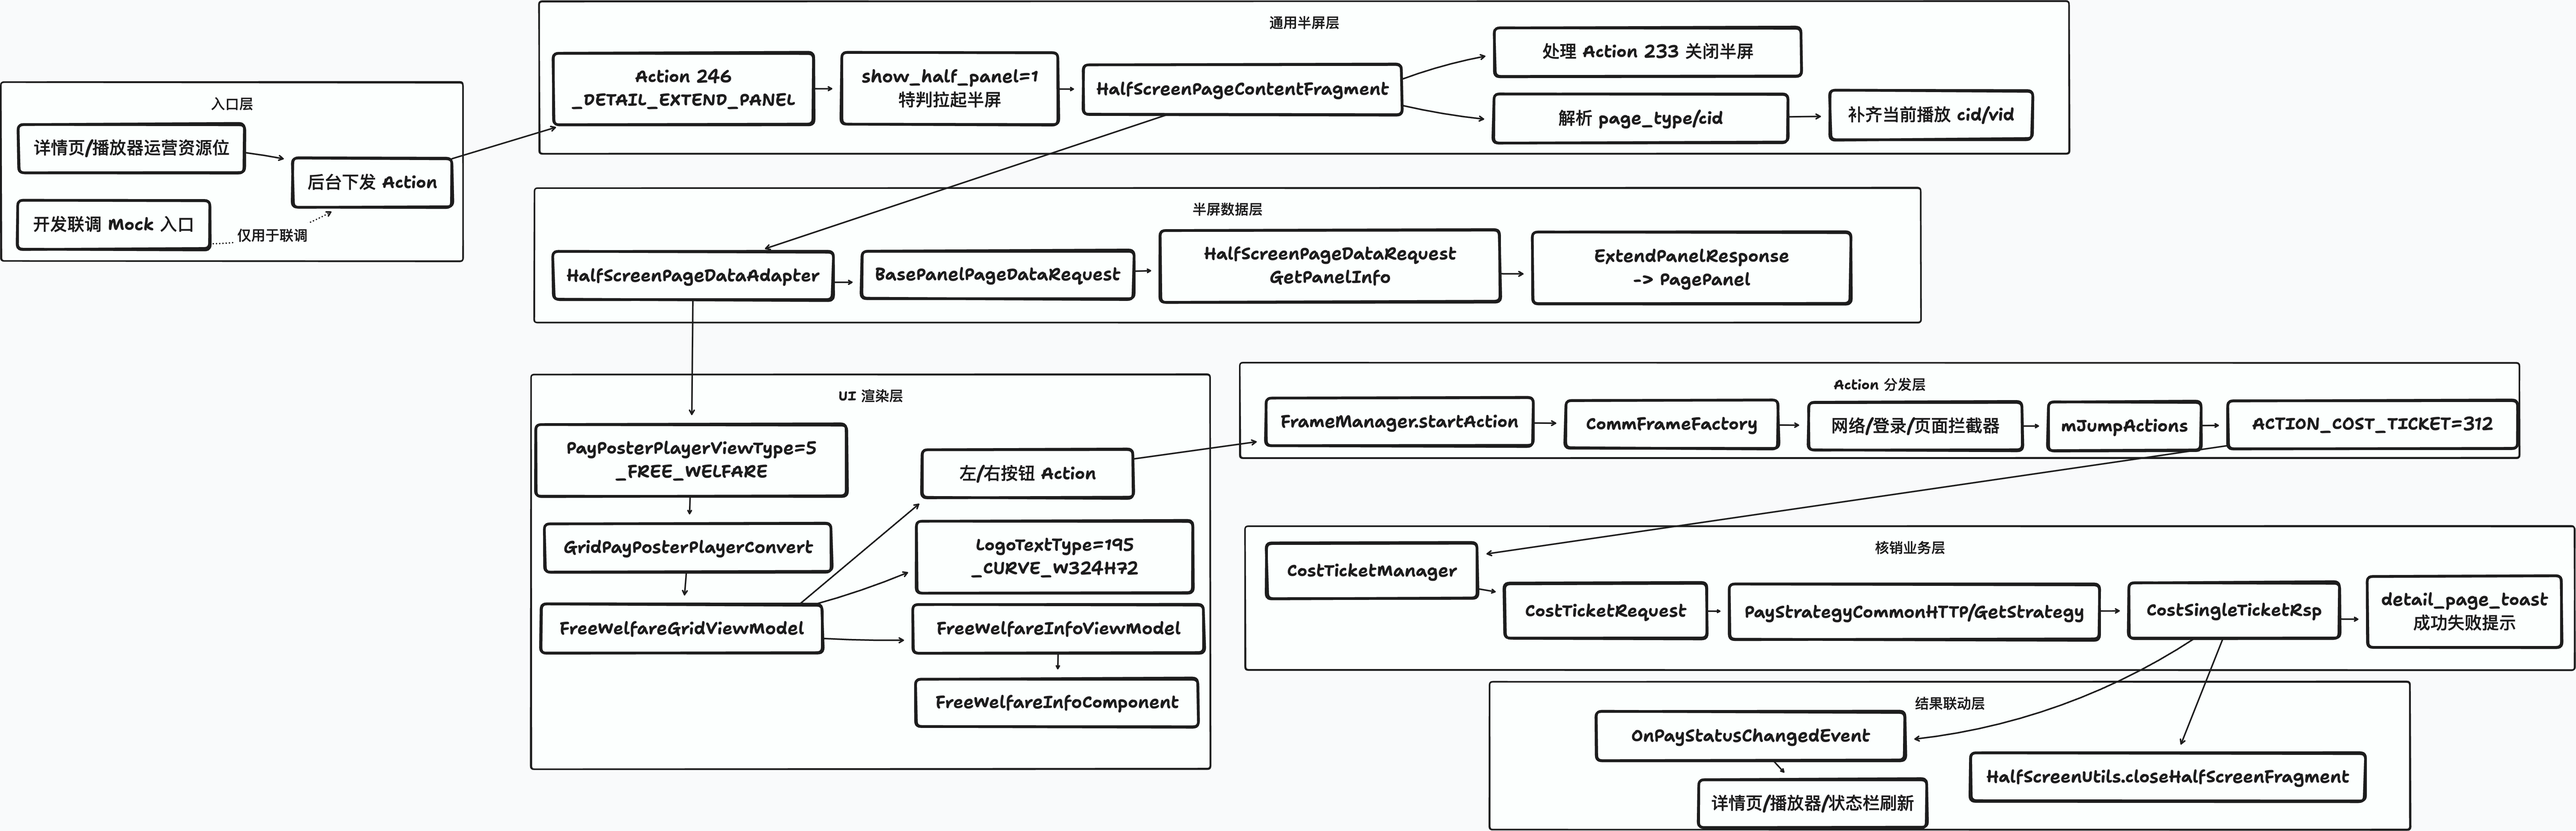
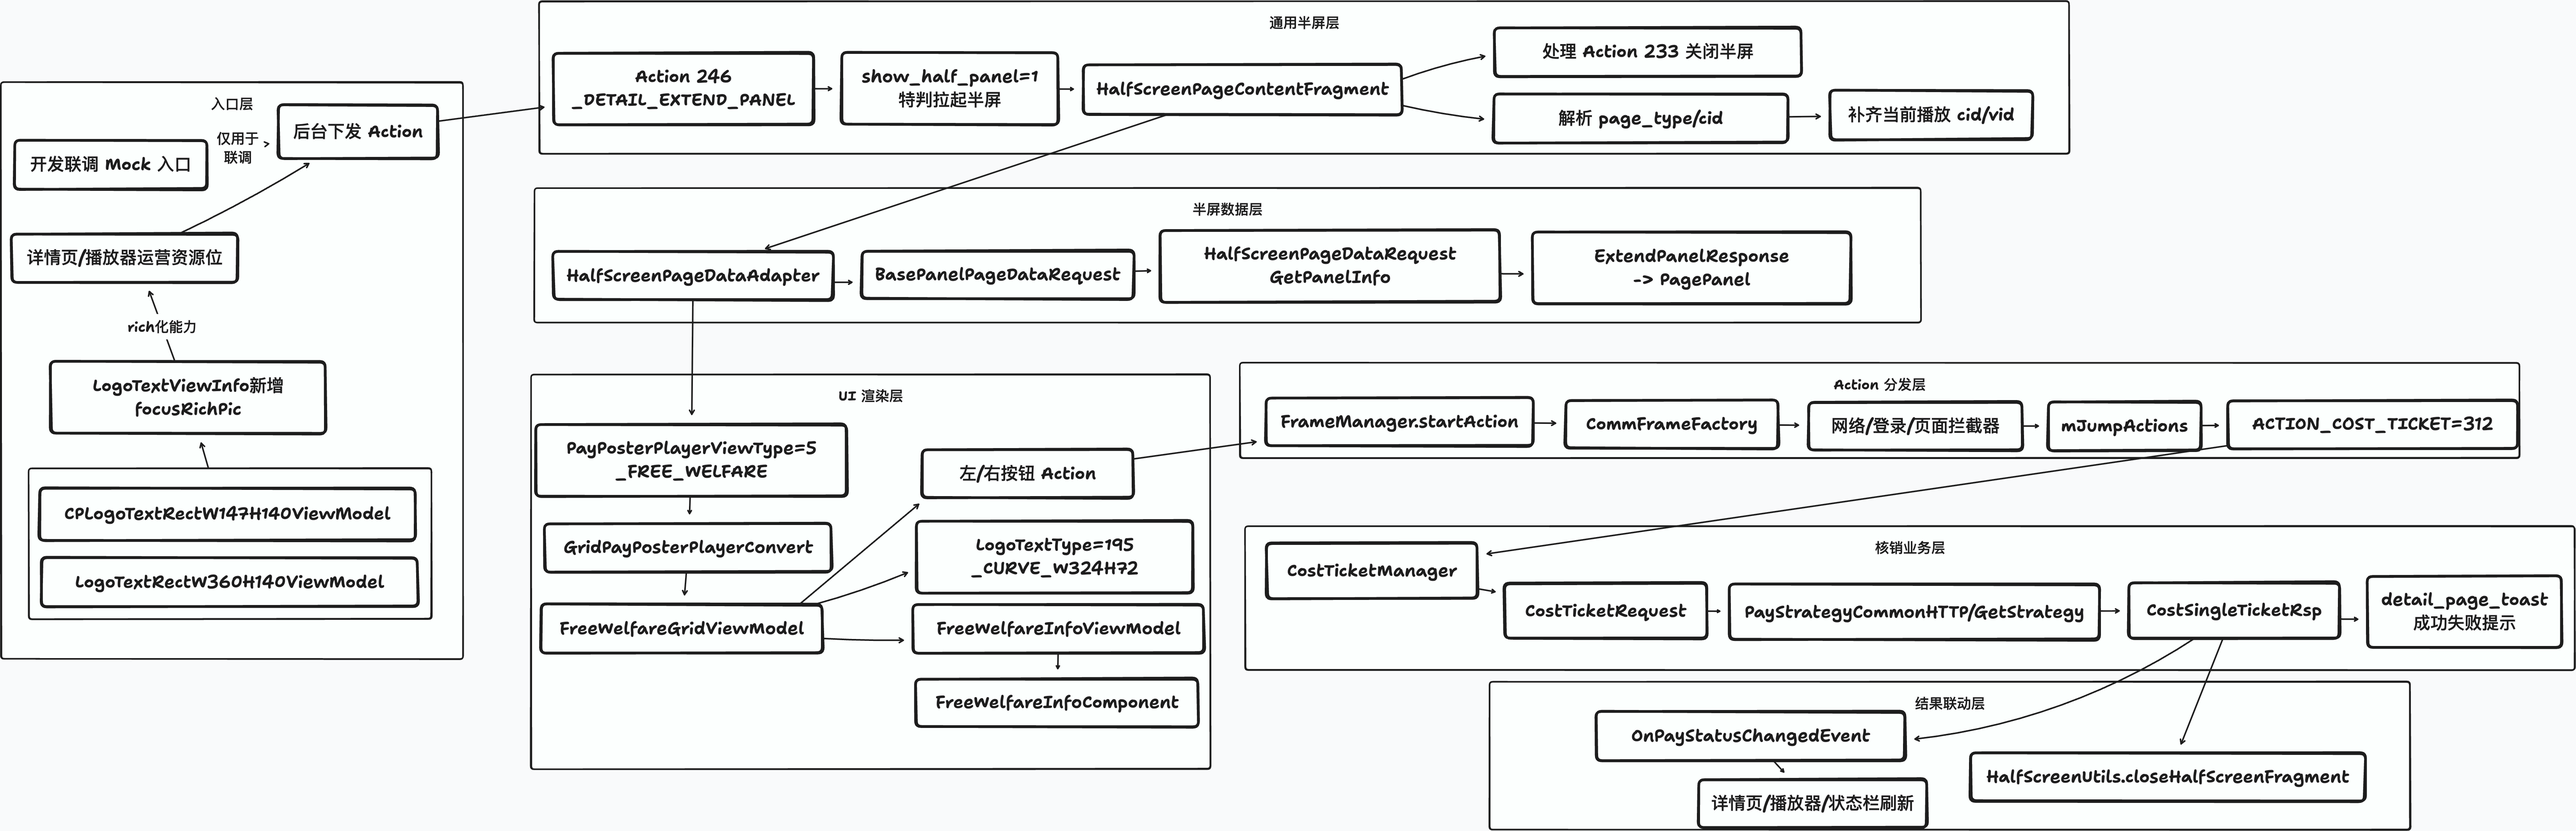
8-12

diff --git a/OTT业务/基线开发/迭代需求/迭代19.9-20.0.md b/OTT业务/基线开发/迭代需求/迭代19.9-20.0.md
@@ -17,6 +17,7 @@ https://tapd.woa.com/tapd_fe/70195660/story/detail/1070195660135026180
 	- 激活后 可能需要重新起播使用权益
 - 半屏页面UI
 	- Panel接口，协议和后台确定（可以使用通用半屏）
+- 详情页/低配播放器rich化能力
 - 弹幕（简化版本不涉及客户端）	
 
 https://doc.weixin.qq.com/mind/m4_AdkAvAYhAF8CN51LJuUMbTR0mMed3?scode=AJEAIQdfAAo1EOGVwEAZUAIAa-AM8
@@ -29,26 +30,21 @@ https://doc.weixin.qq.com/mind/m4_AdkAvAYhAF8CN51LJuUMbTR0mMed3?scode=AJEAIQdfAA
 
 针对已有半屏做参照：`LimitedFreeUnlockGridViewModel`（限免半屏）
 
-我本地的实现：
-1. `HeaderFuncBtnListViewModel`中mock一下拉起半屏的入口
-	1. 这里对应[[详情页回包数据结构]]中详情页顶部功能按钮部分，当前左右结构详情页功能按钮在这里解析，在`updateFunctionButtons`函数中动刀
-	2. mock一个mockLogoTextViewInfo，改一下mainText，然后viewInfo直接写回到ItemInfo的view.mData字段，同时用JceOutputStream把viewInfo也转序写到view.viewData字段
-	3. action涉及到`ActionId._ACTION_DETAIL_EXTEND_PANEL、KEY_EXTEND_TYPE、ACTION_ATTR_STR_PAGE_TYPE`
-
-2. 然后是添加一种通用半屏
+1. 添加一种通用半屏
 	1. `_ET_PAGE、_PPPT_W986_H1080_FREE_WELFARE`，这样子能定位到`HalfScreenPageContentFragment`中（用的是`pullUpDialog`）
 	2. 使用`PayPosterPlayerGrid-FreeWelfareInfoViewModel`处理非按钮数据，`GridInfo-FreeWelfareGridViewModel`处理俩按钮和Info，按钮新建对应的大小`_LTT_CURVE_W324H72`，相应的要注册grid.subViewType，logoTextType、写component
-	3. `HalfScreenPageDataAdapter`中mock回包数据，组装`PagePanel`，可以客户端先测试UI效果
+	3. 写componet，注意`onMeasure`最好动态布局，可以提升兼容性，然后就是按照设计稿来画UI
+	4. 在`HalfScreenPageContentFragment`中需要根据`mPageType`设置背景等
+	5. 关于上报，在通用半屏已有曝光上报处新增本需求额外上报字段`act_id`
 
 实现中的小tips：
-1. 写一个helper或者是manager来去处理活动的相关逻辑，点击核销，请求，透传等
-2. 两种拉起方式：
+1. 两种拉起方式：
 	1. `CommFrameFactory`中注册相关的jump事件，然后靠`startAction`调用拉起（目前有半屏支付面板、首页家庭片单半屏、底部半屏走这条）
 	2. pullUpDialog接口也可以拉起半屏，详情页`DoubleRow...Fragment`的`handleItemClicked`中用的这种方式，其中会过滤一部分action
 	3. 本次需求走的是第一种`CommFrameFactory`方式（因为走的是244里的uri）
-3. 关闭半屏可以参考`onLimitedFreeUnlockEvent`
-4. 处理按钮的时候参考了`LimitedFreeUnlockGridViewModel`中防御性编程，兼容兜底了返回1个或0个按钮的情况
-5. 关于通用半屏的使用有一些特殊处理，backTips的可见性、通用模版里的margin、padding等
+2. 关闭半屏可以参考`onLimitedFreeUnlockEvent`
+3. 处理按钮的时候参考了`LimitedFreeUnlockGridViewModel`中防御性编程，兼容兜底了返回1个或0个按钮的情况
+4. 关于通用半屏的使用有一些特殊处理，backTips的可见性、通用模版里的margin、padding等
 
 > https://git.woa.com/TvProject/TvTrunkProject/-/merge_requests/32171/notes
 
@@ -69,6 +65,28 @@ https://doc.weixin.qq.com/mind/m4_AdkAvAYhAF8CN51LJuUMbTR0mMed3?scode=AJEAIQdfAA
 4. cid、vid、资产页等小模块
 
 > https://git.woa.com/TvProject/TvTrunkProject/-/merge_requests/32257/notes
+
+##### 针对详情页/低配播控入口rich化能力
+
+本地实现：
+1. 首先是定位到了详情页/低配全屏播控的按钮viewmodel：`CPLogoTextRectW147H140ViewModel`，`LogoTextRectW360H140ViewModel`
+2. 与后台协商新增`LogoTextViewInfo.focusRichPic`字段
+3. 注意component中需要处理与其他获焦canvas的互斥能力
+4. viewmodel中请求图片的编码方式学习其他已有实现
+
+> https://git.woa.com/TvProject/TvTrunkProject/-/merge_requests/32275?ADTAG=git-cli
+
+##### mock入口
+
+我本地的实现：
+1. `HeaderFuncBtnListViewModel`中mock一下拉起半屏的入口
+	1. 这里对应[[详情页回包数据结构]]中详情页顶部功能按钮部分，当前左右结构详情页功能按钮在这里解析，在`updateFunctionButtons`函数中动刀
+	2. mock一个mockLogoTextViewInfo，改一下mainText，也可以配置rich图资源，然后viewInfo直接写回到ItemInfo的view.mData字段，同时用JceOutputStream把viewInfo也转序写到view.viewData字段
+	3. action使用244，后续拉起半屏参数在uri字段中：`"tenvideo2://free_welfare?action=246&show_half_panel=1&extend_type=4&str_page_type=free_welfare_half&act_id=mock_act_002");`
+2. 全屏播放播控入口的mock在`FunctionListModule`中，mock方式和详情页一致
+3. 对于权益领取回包、半屏请求回包，利用本地的mitmproxy去mock，保证可以跑通
+
+> https://git.woa.com/yaoboyu/mymitmproxy
 
 ## 需求2
 

diff --git a/工作日志/2026年/8月/8-11.md b/工作日志/2026年/8月/8-11.md
@@ -1,0 +1,30 @@
+
++ [ ] 半屏代码合入
++ [x] 核销代码合入
++ [x] rich化入口代码合入
++ [ ] CR一下频控代码
+
++ [x] 上报act_id，半屏报，并且下发到按钮里
+	+ [x] 上报半屏act_id没问题，按钮希望看看能不能后台来下发，act_id半屏请求会带过去，后台组装到按钮的上报字段里
+	+ [x] 客户端去同步数据的话可以用mDataAdapter.setLocalReportData(reportData);
+	+ 注意一下oneRefreshItems并没有mergeDtReportInfo
+
++ [x] 再去同步一下迭代文档
++ [x] 记得用720p和4k的模拟器去测试一下兼容性
+
++ [ ] 等后台发测试环境就merge所有分支去测试
+	+ [x] 已经测试详情页入口以及rich化
+	+ [ ] 测试半屏回包UI
+
++ [ ] 阅读20.1的需求
+	+ [x] 产出基本的改动代码范围
+	+ [ ] 阅读完整原先代码
+	+ [ ] 先做代码的优化改版（静态）
+	+ [ ] 增加动效
+
+
+----
+代码中的一些学习：
+1. @BindNode修饰的canvas一般不会为null，不用判空
+2. GlideUtils.into(this, url, canvas, drawableSetter);和RequestBuilder = Glide.with(...).load(url)
+GlideUtils.into(this, RequestBuilder, canvas, setter)基本功能等价，但是RequestBuilder 版本可以额外配置，需要尺寸、优先级、占位图、错误图等配置使用 RequestBuilder 版本；

diff --git a/工作日志/2026年/8月/8-10.md b/工作日志/2026年/8月/8-10.md
@@ -1,0 +1,19 @@
+
++ [ ] UI代码合入
+	+ [x]  修改半屏UI代码的CR
++ [ ] 逻辑代码合入
++ [ ] CR一下频控代码
++ [x] 催后台要测试环境联调
++ [x] 完成入口协议字段和rich能力的开发
++ [x] 完成上报代码的跟读
+
+
++ [x] 上报act_id，半屏报，并且下发到按钮里
+	+ [ ] 上报半屏act_id没问题，按钮希望看看能不能后台来下发，act_id半屏请求会带过去，后台组装到按钮的上报字段里
+	+ 客户端去同步数据的话可以用mDataAdapter.setLocalReportData(reportData);
+	+ 注意一下oneRefreshItems并没有mergeDtReportInfo
++ [x] 合并三个分支到一个temp里做测试
+
++ [ ] 记得用720p和4k的模拟器去测试一下兼容性
+
++ [ ] 阅读20.1的需求

diff --git a/工作日志/2026年/8月/8-12.md b/工作日志/2026年/8月/8-12.md
@@ -1,0 +1,15 @@
+
++ [ ] 半屏代码合入
++ [ ] CR一下频控代码
+
++ 注意一下oneRefreshItems并没有mergeDtReportInfo
+
++ [ ] 等后台发测试环境就merge所有分支去测试
+	+ [ ] 测试半屏回包UI
+
++ [ ] 阅读20.1的需求
+	+ [ ] 阅读完整原先代码
+	+ [ ] 先做代码的优化改版（静态）
+	+ [ ] 增加动效
+
++ [ ] 金广说的inTouchModel改回来，在半屏里

diff --git a/OTT业务/基线开发/迭代需求/迭代20.1.md b/OTT业务/基线开发/迭代需求/迭代20.1.md
@@ -1,0 +1,15 @@
+
+## 需求1
+
+【终端业务组】【片单】片单容器支持动效
+https://tapd.woa.com/tapd_fe/70195660/story/detail/1070195660137019431
+
+#### 需求评审
+
+
++ 定位到组件：FilmListPosterCardW512H334Component
+
+
+#### 需求实现
+
++ 首先定位到代码改动只会在：`FilmListPosterCardViewModel`、`FilmListPosterCardW512H334Component`两个类里
